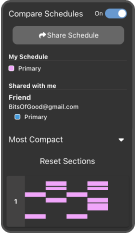
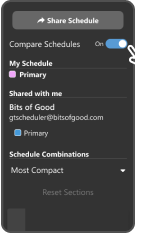
Update images and padding

diff --git a/src/components/InformationModal/stylesheet.scss b/src/components/InformationModal/stylesheet.scss
@@ -1,23 +1,23 @@
 .InformationModal {
-  align-items: center;
   .information-content {
     display: flex;
+    position: relative;
     width: 100%;
     align-items: center;
     justify-content: center;
     p {
       margin: 0px;
-      width: 270px;
+      width: 12vw;
     }
     .information-images {
       display: flex;
+      overflow: hidden;
+      align-items: center;
       .information-image {
         width: auto;
-        height: 275px;
+        height: 100%;
         margin-left: 16px;
         display: block;
-        border: #505050 3px solid;
-        border-radius: 12px;
         overflow: hidden;
       }
     }
@@ -38,16 +38,15 @@
     }
     .information-images {
       display: flex;
+      justify-content: space-evenly;
       .information-spacer {
-        flex: 1;
+        flex: .5;
       }
       .information-image {
         width: auto;
         height: 45vw;
         margin: 16px 0px 0px 0px;
         display: block;
-        border: #505050 3px solid;
-        border-radius: 12px;
         overflow: hidden;
       }
     }

diff --git a/src/components/InformationModal/index.tsx b/src/components/InformationModal/index.tsx
@@ -57,13 +57,13 @@ export function InformationModalContent(): React.ReactElement {
         <div className="information-images">
           <img
             className="information-image"
-            alt="Event Blocks"
+            alt="Compare Schedules View"
             src="/compare_schedule.png"
           />
           <div className="information-spacer" />
           <img
             className="information-image"
-            alt="Drag Drop"
+            alt="Compare Schedules Panel"
             src="/compare_panel.png"
           />
         </div>
